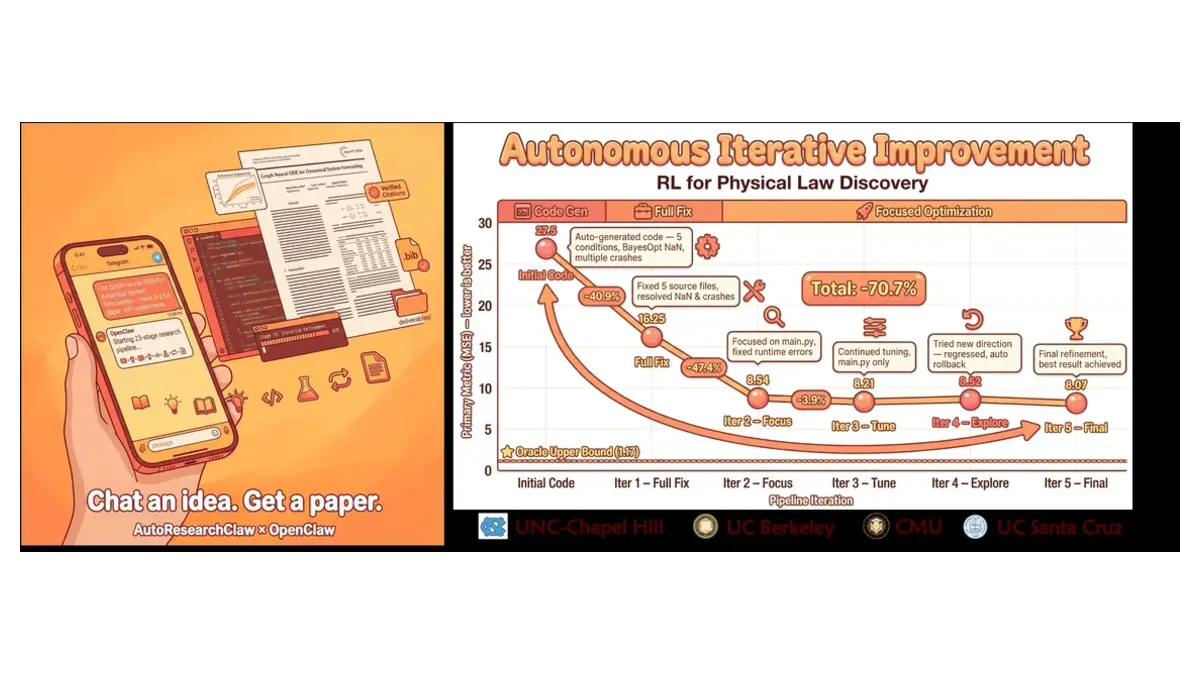
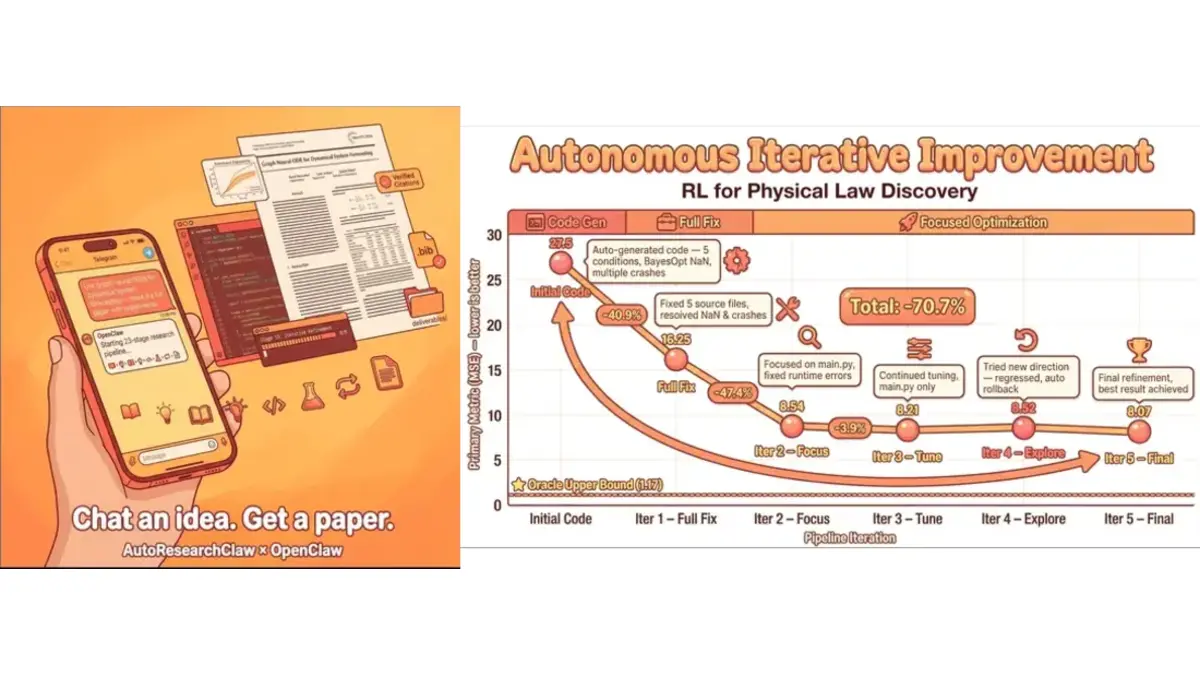
Refine SUSTech description and crop AutoResearchClaw visual

diff --git a/_layouts/default.html b/_layouts/default.html
@@ -36,7 +36,7 @@
         <div class="section-kicker">About</div>
         <div class="about-grid"><h2>Building adaptive AI for open-ended problems.</h2><div class="about-copy">
           <p>My research focuses on adaptive AI agents that learn from interaction, improve through experience, and reason across modalities. I am broadly interested in self-evolving agents, multimodal reasoning, AI alignment, and optimization. I also contribute to <a href="https://github.com/aiming-lab/RSI-Exam">RSI-Exam</a> by developing executable research tasks and reliable infrastructure for evaluating agent self-improvement.</p>
-          <p>Before joining UNC, I was a research intern at the <a href="https://www.huaxiuyao.io/aiming-lab/">AIMING Lab</a>, where I worked on agent evaluation, alignment, and multimodal foundation models. I was also a visiting researcher with the HAS Lab at Southern University of Science and Technology (SUSTech), working on healthcare and embodied agents. Earlier, I studied foundation models for autonomous-driving systems at CIDI with <a href="https://billchan226.github.io/">Dr. Zhaorun Chen</a>.</p>
+          <p>Before joining UNC, I was a research intern at the <a href="https://www.huaxiuyao.io/aiming-lab/">AIMING Lab</a>, where I worked on agent evaluation, alignment, and multimodal foundation models. I was also a visiting researcher with the HAS Lab at Southern University of Science and Technology (SUSTech), working on embodied agents. Earlier, I studied foundation models for autonomous-driving systems at CIDI with <a href="https://billchan226.github.io/">Dr. Zhaorun Chen</a>.</p>
         </div></div>
       </section>
       <section class="section" id="publications">
@@ -45,7 +45,7 @@
           {% assign custom_order = "EduVisBench,ClawArena,Paper2Figure,Agent0-VL,MJ-Video,GLIMPSE,Two-stage multi-modal" | split: "," %}
           {% for title_key in custom_order %}{% for post in site.posts %}{% for cat in post.categories %}{% if cat == 'research' and post.title contains title_key %}
           <article class="publication-card{% if post.role %} lead-work{% endif %}">
-            <div class="paper-media">{% if post.image %}<img src="{{ post.image }}?v=20261013-3" alt="Preview for {{ post.title }}" loading="lazy">{% else %}<div class="paper-placeholder placeholder-{{ forloop.index | modulo: 3 }}" aria-hidden="true"><span>{{ post.visual | default: title_key }}</span></div>{% endif %}</div>
+            <div class="paper-media">{% if post.image %}<img src="{{ post.image }}?v=20261013-4" alt="Preview for {{ post.title }}" loading="lazy">{% else %}<div class="paper-placeholder placeholder-{{ forloop.index | modulo: 3 }}" aria-hidden="true"><span>{{ post.visual | default: title_key }}</span></div>{% endif %}</div>
             <div class="paper-content">
               <div class="paper-meta"><span class="venue-badge">{{ post.venue }}</span>{% if post.role %}<span class="role-badge">{{ post.role }}</span>{% endif %}</div>
               <h3>{{ post.title }}</h3><p class="paper-authors">{{ post.authors }}</p><div class="paper-abstract">{{ post.excerpt }}</div>
@@ -61,7 +61,7 @@
           {% assign current_order = "MetaClaw,ClawForge,AutoResearchClaw,VisualClaw" | split: "," %}
           {% for title_key in current_order %}{% for post in site.posts %}{% for cat in post.categories %}{% if cat == 'current' and post.title contains title_key %}
           <article class="publication-card current-work">
-            <div class="paper-media"><img src="{{ post.image }}?v=20261013-3" alt="Research visual for {{ post.title }}" loading="lazy"></div>
+            <div class="paper-media"><img src="{{ post.image }}?v=20261013-4" alt="Research visual for {{ post.title }}" loading="lazy"></div>
             <div class="paper-content">
               <div class="paper-meta"><span class="venue-badge status-badge">{{ post.venue }}</span></div>
               <h3>{{ post.title }}</h3>{% if post.authors %}<p class="paper-authors">{{ post.authors }}</p>{% endif %}<div class="paper-abstract">{{ post.excerpt }}</div>
